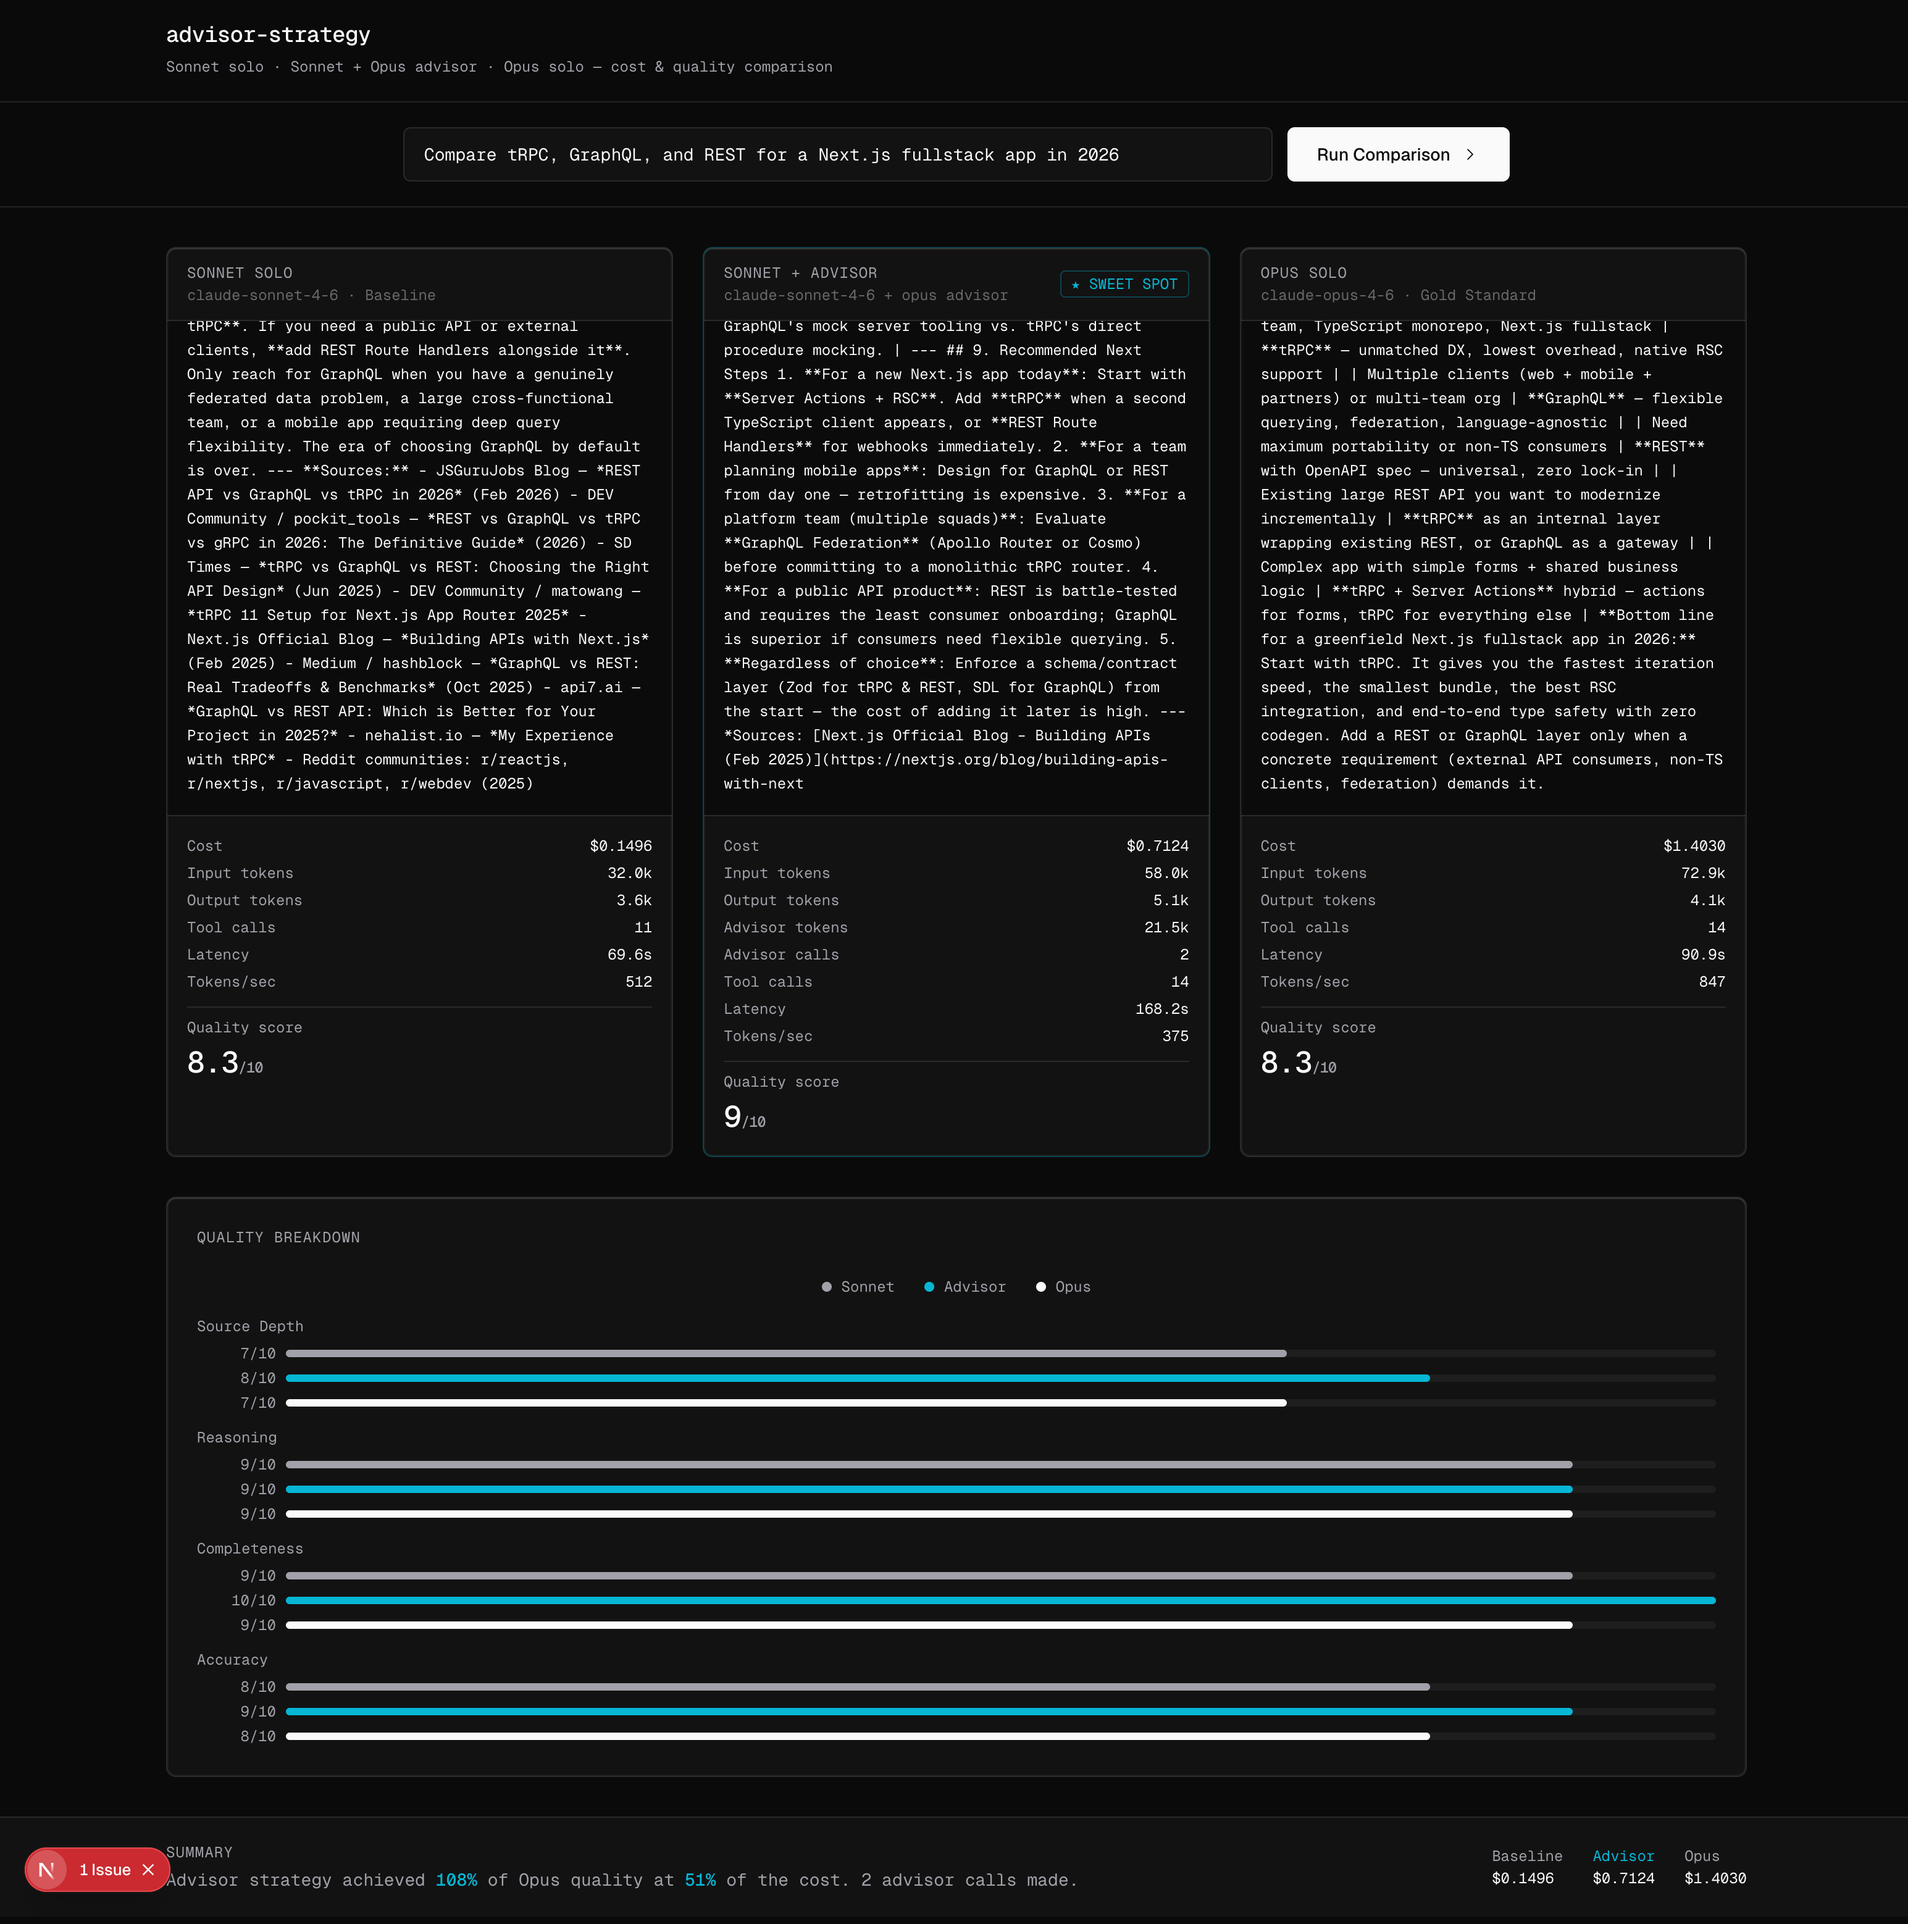
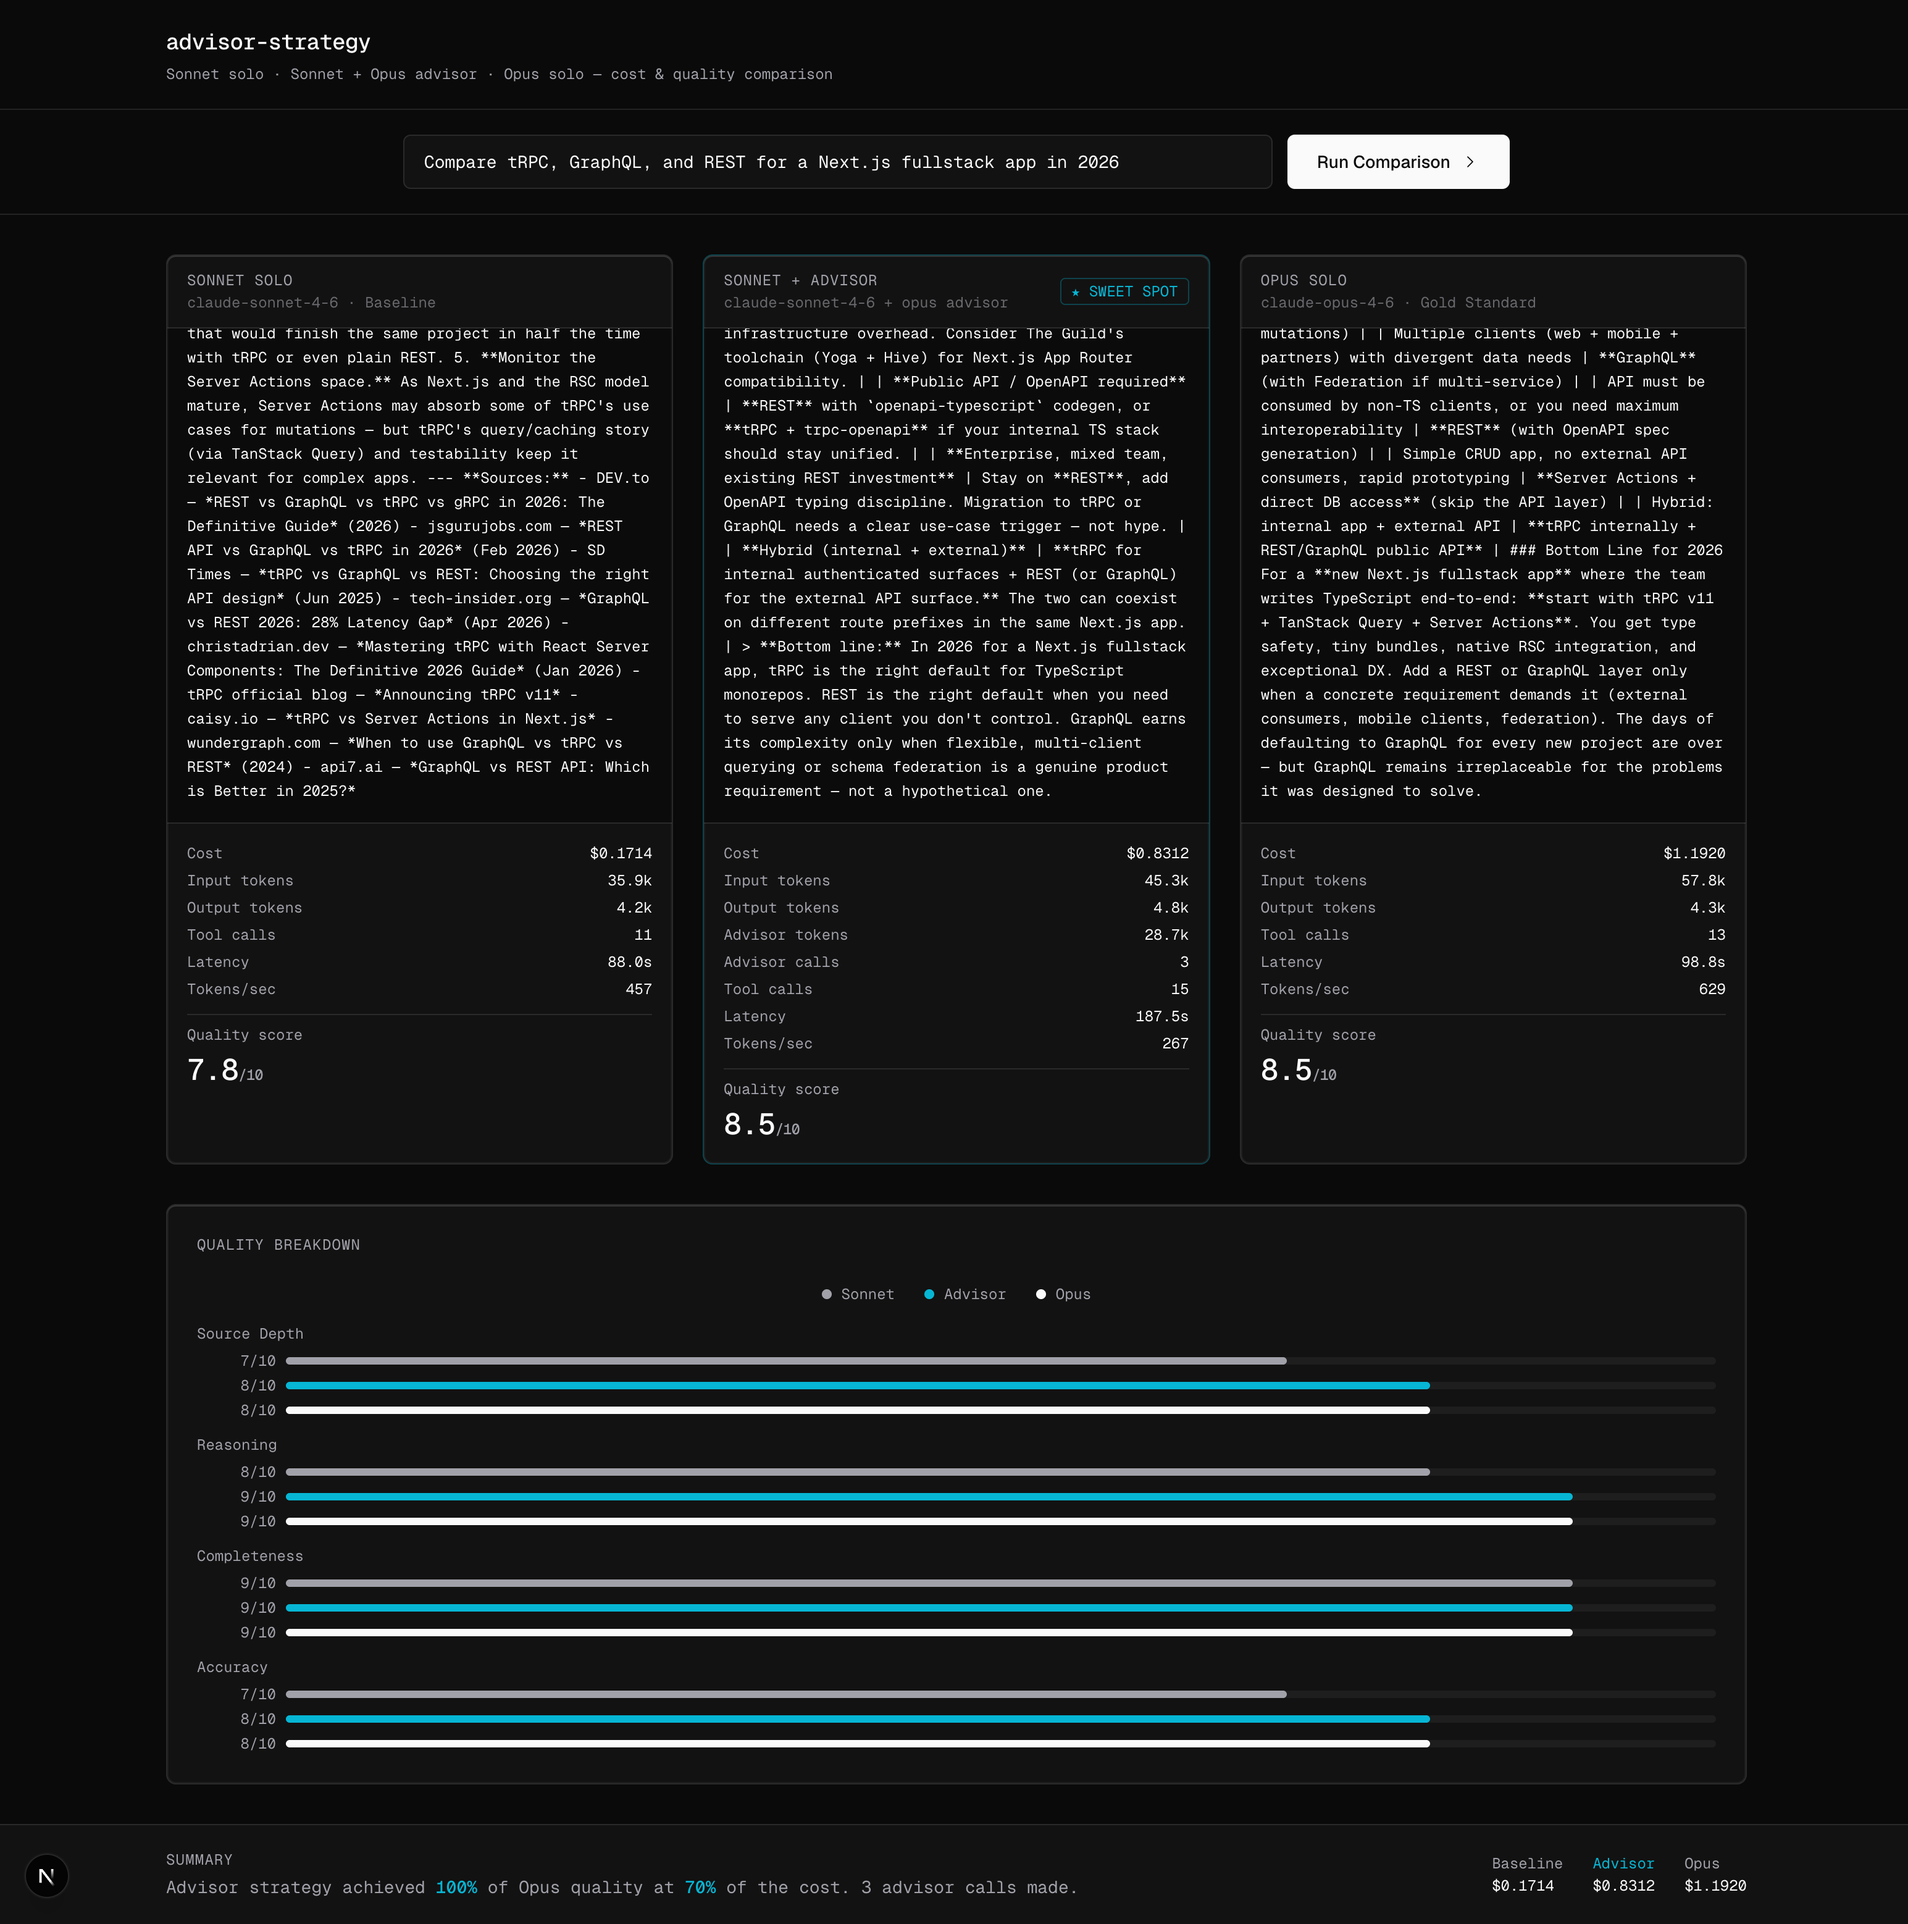
docs: update README with revised performance metrics and remove outdated screenshots

diff --git a/README.md b/README.md
@@ -8,13 +8,13 @@ A live benchmark comparing three model configurations on the same research query
 
 ## What it shows
 
-| Configuration | Cost | Quality | Notes |
-|---|---|---|---|
-| **Sonnet solo** | $0.24 | 8.0/10 | Baseline — full agentic loop, no advisor |
-| **Sonnet + Opus advisor** | $0.50 | 8.5/10 | Sweet spot — Opus consulted 2× on hard decisions |
-| **Opus solo** | $0.89 | 7.8/10 | Gold standard — full frontier cost |
+| Configuration | Cost | Quality | Latency | Notes |
+|---|---|---|---|---|
+| **Sonnet solo** | $0.17 | 7.8/10 | 88.0s | Baseline — full agentic loop, no advisor |
+| **Sonnet + Opus advisor** | $0.63 | 8.5/10 | 187.5s | Sweet spot — Opus consulted 2× on hard decisions |
+| **Opus solo** | $1.50 | 8.5/10 | 98.8s | Gold standard — full frontier cost |
 
-Sonnet + Advisor achieved higher quality than Opus solo at 56% of the cost.
+Sonnet + Advisor matched Opus quality at 42% of the cost.
 
 ---
 
